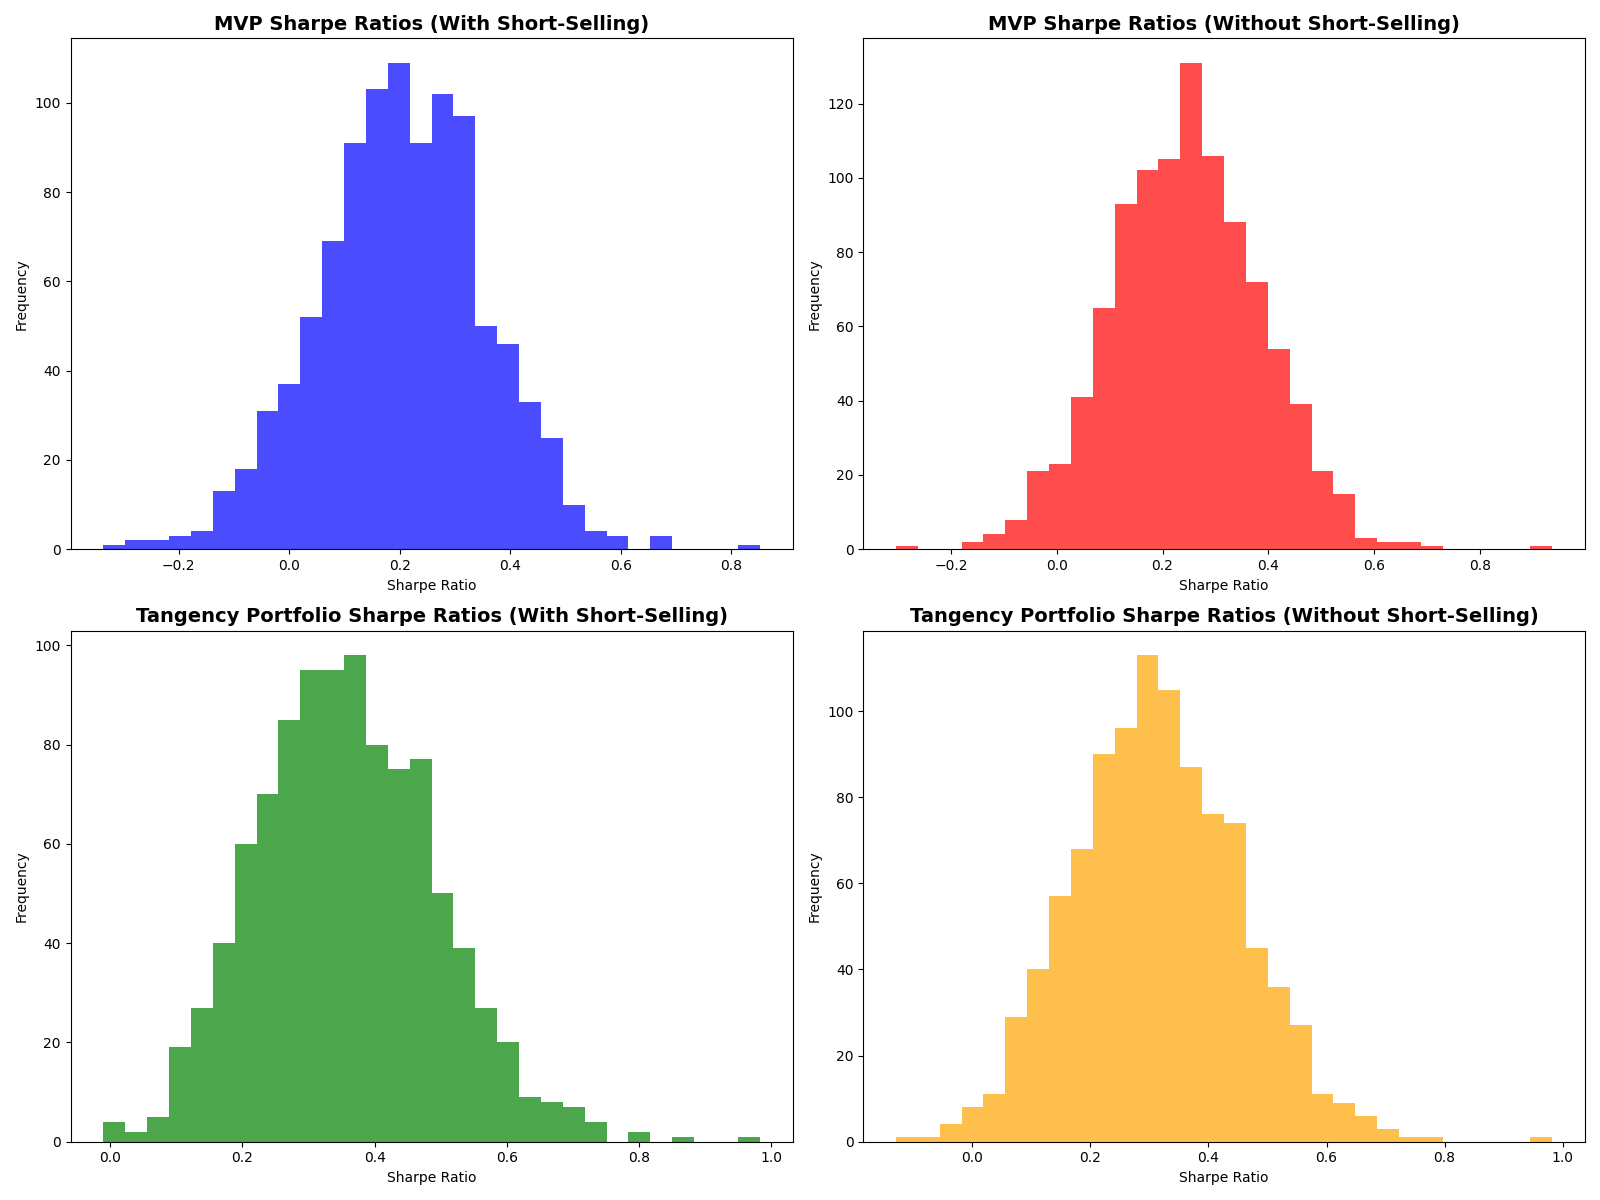
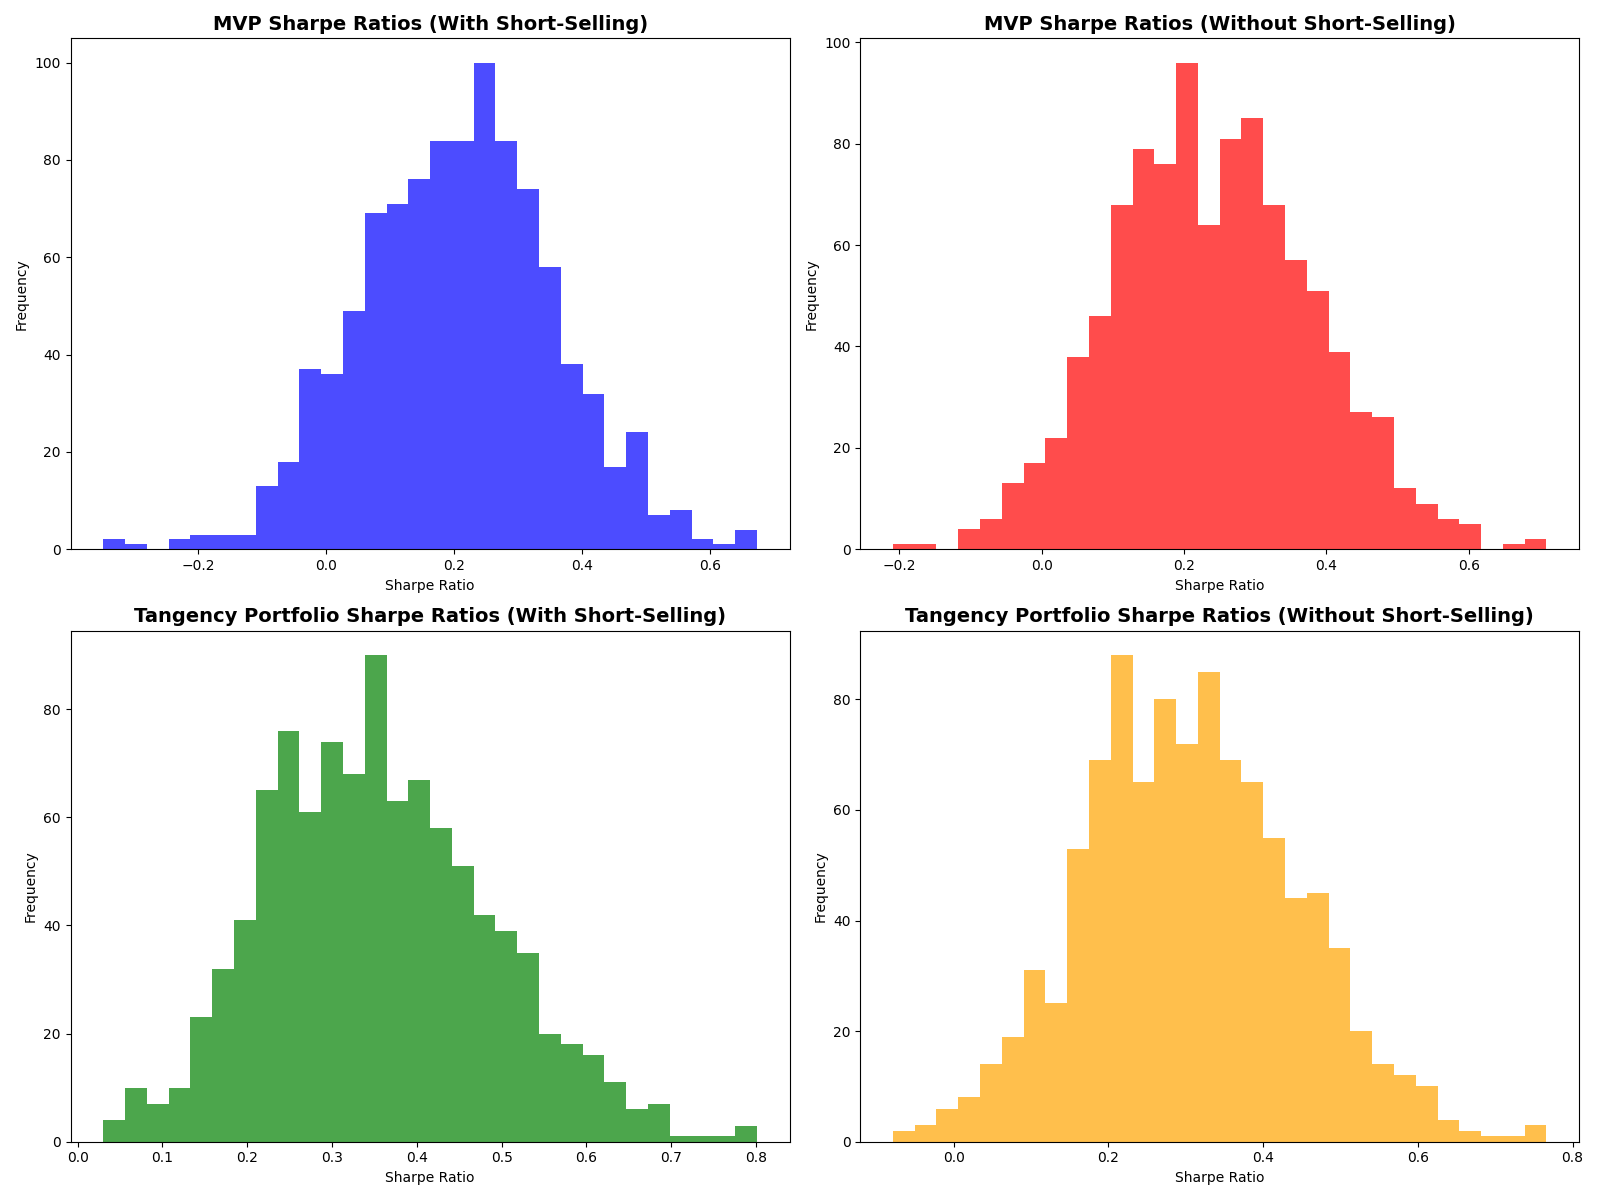
send

diff --git a/Projet.py b/Projet.py
@@ -760,3 +760,215 @@ axs[1, 1].grid(True)
 plt.tight_layout()
 plt.savefig("most_optimal_portfoliosB12.png")
 plt.show() 
+
+
+
+
+
+
+
+
+# B) 2. Repeat 1 but with a maximum of 3 of the 5 industries chosen
+# Chose 3 random industries (columns) from the portfolios_data DataFrame
+
+def bootstrap_sampling(data, n_iterations=1000, sample_size=60):
+   bootstrap_samples = []
+   for _ in range(n_iterations):
+       sample = data.sample(n=sample_size, replace=True)
+       bootstrap_samples.append(sample)
+   return bootstrap_samples
+
+# Perform bootstrap sampling
+bootstrap_samples = bootstrap_sampling(returns, n_iterations=1000, sample_size=60)
+# Initialize lists to store results for both short-selling scenarios
+mvp_results_with_short = []
+mvp_results_without_short = []
+tangency_results_with_short = []
+tangency_results_without_short = []
+
+# Loop through each bootstrap sample
+for sample in bootstrap_samples:
+   # Calculate expected returns and covariance matrix
+   expected_returns = sample.mean()
+   cov_matrix = sample.cov()
+   
+   # MVP with short-selling
+   mvp_weights_with_short = calculate_mvp_weights(cov_matrix, allow_short_selling=True)
+   mvp_return_with_short = np.dot(mvp_weights_with_short, expected_returns)
+   mvp_risk_with_short = np.sqrt(mvp_weights_with_short.T @ cov_matrix @ mvp_weights_with_short)
+   mvp_results_with_short.append({
+       'mvp_weights': mvp_weights_with_short,
+       'mvp_return': mvp_return_with_short,
+       'mvp_risk': mvp_risk_with_short,
+       'sharpe_ratio': (mvp_return_with_short - rf_rate) / mvp_risk_with_short
+   })
+   
+   # MVP without short-selling
+   mvp_weights_without_short = calculate_mvp_weights(cov_matrix, allow_short_selling=False)
+   mvp_return_without_short = np.dot(mvp_weights_without_short, expected_returns)
+   mvp_risk_without_short = np.sqrt(mvp_weights_without_short.T @ cov_matrix @ mvp_weights_without_short)
+   mvp_results_without_short.append({
+       'mvp_weights': mvp_weights_without_short,
+       'mvp_return': mvp_return_without_short,
+       'mvp_risk': mvp_risk_without_short,
+       'sharpe_ratio': (mvp_return_without_short - rf_rate) / mvp_risk_without_short
+   })
+   
+   # Tangency with short-selling
+   tangency_portfolio_with_short = calculate_tangency_portfolio(expected_returns, cov_matrix, rf_rate, allow_short_selling=True)
+   tangency_results_with_short.append(tangency_portfolio_with_short)
+   
+   # Tangency without short-selling
+   tangency_portfolio_without_short = calculate_tangency_portfolio(expected_returns, cov_matrix, rf_rate, allow_short_selling=False)
+   tangency_results_without_short.append(tangency_portfolio_without_short)
+
+# Convert results to DataFrames
+def results_to_dataframe(results):
+   return pd.DataFrame([{
+       'portfolio_return': result['mvp_return'] if 'mvp_return' in result else result['expected_return'],
+       'portfolio_risk': result['mvp_risk'] if 'mvp_risk' in result else result['risk'],
+       'sharpe_ratio': result['sharpe_ratio']
+   } for result in results])
+
+mvp_df_with_short = results_to_dataframe(mvp_results_with_short)
+mvp_df_without_short = results_to_dataframe(mvp_results_without_short)
+tangency_df_with_short = results_to_dataframe(tangency_results_with_short)
+tangency_df_without_short = results_to_dataframe(tangency_results_without_short)
+
+# Plotting
+plt.figure(figsize=(16, 12))
+plt.subplot(2, 2, 1)
+plt.hist(mvp_df_with_short['sharpe_ratio'], bins=30, color='blue', alpha=0.7)
+plt.title('MVP Sharpe Ratios (With Short-Selling)', fontsize=14, fontweight='bold')
+plt.xlabel('Sharpe Ratio')
+plt.ylabel('Frequency')
+
+plt.subplot(2, 2, 2)
+plt.hist(mvp_df_without_short['sharpe_ratio'], bins=30, color='red', alpha=0.7)
+plt.title('MVP Sharpe Ratios (Without Short-Selling)', fontsize=14, fontweight='bold')
+plt.xlabel('Sharpe Ratio')
+plt.ylabel('Frequency')
+
+plt.subplot(2, 2, 3)
+plt.hist(tangency_df_with_short['sharpe_ratio'], bins=30, color='green', alpha=0.7)
+plt.title('Tangency Portfolio Sharpe Ratios (With Short-Selling)', fontsize=14, fontweight='bold')
+plt.xlabel('Sharpe Ratio')
+plt.ylabel('Frequency')
+
+plt.subplot(2, 2, 4)
+plt.hist(tangency_df_without_short['sharpe_ratio'], bins=30, color='orange', alpha=0.7)
+plt.title('Tangency Portfolio Sharpe Ratios (Without Short-Selling)', fontsize=14, fontweight='bold')
+plt.xlabel('Sharpe Ratio')
+plt.ylabel('Frequency')
+
+plt.tight_layout()
+plt.savefig("bootstrap_comparisonB21.png")
+plt.show()
+
+# Print summary statistics
+print("MVP With Short-Selling Summary:")
+print(mvp_df_with_short.describe())
+print("\nMVP Without Short-Selling Summary:")
+print(mvp_df_without_short.describe())
+print("\nTangency With Short-Selling Summary:")
+print(tangency_df_with_short.describe())
+print("\nTangency Without Short-Selling Summary:")
+print(tangency_df_without_short.describe())
+
+
+# Make another bundle of graphs where it shows the MPV and tangency portfolio (as in A1, A2, A4, A5) 
+# from the bootstrap samples that is the most optimal
+# Function to find the most optimal portfolio based on Sharpe ratio
+def find_most_optimal_portfolio(results):
+    """
+    Find the most optimal portfolio based on the highest Sharpe ratio.
+    
+    Parameters:
+    - results: List of dictionaries containing portfolio information
+    
+    Returns:
+    - Dictionary with the most optimal portfolio details
+    """
+    optimal_portfolio = max(results, key=lambda x: x['sharpe_ratio'])
+    return optimal_portfolio
+
+# Find the most optimal portfolios
+most_optimal_mvp_with_short = find_most_optimal_portfolio(mvp_results_with_short)
+most_optimal_mvp_without_short = find_most_optimal_portfolio(mvp_results_without_short)
+most_optimal_tangency_with_short = find_most_optimal_portfolio(tangency_results_with_short)
+most_optimal_tangency_without_short = find_most_optimal_portfolio(tangency_results_without_short)
+# Create subplots for the most optimal portfolios
+fig, axs = plt.subplots(2, 2, figsize=(16, 12))
+
+# Plotting the most optimal MVP with short-selling
+axs[0, 0].set_title("Most Optimal MVP (With Short Selling)", fontsize=15, fontweight='bold')
+for industry in expected_returns.index:
+    axs[0, 0].scatter(np.std(returns[industry]) * 100, expected_returns[industry] * 100, marker='X', s=200, label=industry)
+axs[0, 0].scatter(most_optimal_mvp_with_short['mvp_risk'] * 100, most_optimal_mvp_with_short['mvp_return'] * 100, color="red", marker="*", s=200, label="Most Optimal MVP (With Short Selling)")
+axs[0, 0].text(most_optimal_mvp_with_short['mvp_risk'] * 100, most_optimal_mvp_with_short['mvp_return'] * 100, f"(r = {most_optimal_mvp_with_short['mvp_return']*100:.2f}%), σ = {most_optimal_mvp_with_short['mvp_risk']*100:.2f}%)", fontsize=8, ha='right')
+axs[0, 0].xaxis.set_major_formatter(mtick.PercentFormatter())
+axs[0, 0].yaxis.set_major_formatter(mtick.PercentFormatter())
+axs[0, 0].set_xlim(0, 20)
+axs[0, 0].set_ylim(-10, 10)
+axs[0, 0].set_xlabel("Standard Deviation (%)", fontsize=12)
+axs[0, 0].set_ylabel("Expected Return (%)", fontsize=12)
+axs[0, 0].legend()
+axs[0, 0].grid(True)
+
+# Plotting the most optimal MVP without short-selling
+axs[0, 1].set_title("Most Optimal MVP (Without Short Selling)", fontsize=15, fontweight='bold')
+for industry in expected_returns.index:
+    axs[0, 1].scatter(np.std(returns[industry]) * 100, expected_returns[industry] * 100, marker='X', s=200, label=industry)
+axs[0, 1].scatter(most_optimal_mvp_without_short['mvp_risk'] * 100, most_optimal_mvp_without_short['mvp_return'] * 100, color="red", marker="*", s=200, label="Most Optimal MVP (Without Short Selling)")
+axs[0, 1].text(most_optimal_mvp_without_short['mvp_risk'] * 100, most_optimal_mvp_without_short['mvp_return'] * 100, f"(r = {most_optimal_mvp_without_short['mvp_return']*100:.2f}%), σ = {most_optimal_mvp_without_short['mvp_risk']*100:.2f}%)", fontsize=8, ha='right')
+axs[0, 1].xaxis.set_major_formatter(mtick.PercentFormatter())
+axs[0, 1].yaxis.set_major_formatter(mtick.PercentFormatter())
+axs[0, 1].set_xlim(0, 20)
+axs[0, 1].set_ylim(-10, 10)
+axs[0, 1].set_xlabel("Standard Deviation (%)", fontsize=12)
+axs[0, 1].set_ylabel("Expected Return (%)", fontsize=12)
+axs[0, 1].legend()
+axs[0, 1].grid(True)
+
+# Plotting the most optimal Tangency Portfolio with short-selling
+axs[1, 0].set_title("Most Optimal Tangency Portfolio (With Short Selling)", fontsize=15, fontweight='bold')
+for industry in expected_returns.index:
+    axs[1, 0].scatter(np.std(returns[industry]) * 100, expected_returns[industry] * 100, marker='X', s=200, label=industry)
+axs[1, 0].scatter(most_optimal_tangency_with_short['risk'] * 100, most_optimal_tangency_with_short['expected_return'] * 100, color="blue", marker="*", s=200, label="Most Optimal Tangency Portfolio (With Short Selling)")
+axs[1, 0].text(most_optimal_tangency_with_short['risk'] * 100, most_optimal_tangency_with_short['expected_return'] * 100, f"(r = {most_optimal_tangency_with_short['expected_return']*100:.2f}%), σ = {most_optimal_tangency_with_short['risk']*100:.2f}%)", fontsize=8, ha='right')
+axs[1, 0].xaxis.set_major_formatter(mtick.PercentFormatter())
+axs[1, 0].yaxis.set_major_formatter(mtick.PercentFormatter())
+axs[1, 0].set_xlim(0, 20)
+axs[1, 0].set_ylim(-10, 10)
+axs[1, 0].set_xlabel("Standard Deviation (%)", fontsize=12)
+axs[1, 0].set_ylabel("Expected Return (%)", fontsize=12)
+axs[1, 0].legend()
+axs[1, 0].grid(True)
+
+# Plotting the most optimal Tangency Portfolio without short-selling
+axs[1, 1].set_title("Most Optimal Tangency Portfolio (Without Short Selling)", fontsize=15, fontweight='bold')
+for industry in expected_returns.index:
+    axs[1, 1].scatter(np.std(returns[industry]) * 100, expected_returns[industry] * 100, marker='X', s=200, label=industry)
+axs[1, 1].scatter(most_optimal_tangency_without_short['risk'] * 100, most_optimal_tangency_without_short['expected_return'] * 100, color="blue", marker="*", s=200, label="Most Optimal Tangency Portfolio (Without Short Selling)")
+axs[1, 1].text(most_optimal_tangency_without_short['risk'] * 100, most_optimal_tangency_without_short['expected_return'] * 100, f"(r = {most_optimal_tangency_without_short['expected_return']*100:.2f}%), σ = {most_optimal_tangency_without_short['risk']*100:.2f}%)", fontsize=8, ha='right')
+axs[1, 1].xaxis.set_major_formatter(mtick.PercentFormatter())
+axs[1, 1].yaxis.set_major_formatter(mtick.PercentFormatter())
+axs[1, 1].set_xlim(0, 20)
+axs[1, 1].set_ylim(-10, 10)
+axs[1, 1].set_xlabel("Standard Deviation (%)", fontsize=12)
+axs[1, 1].set_ylabel("Expected Return (%)", fontsize=12)
+axs[1, 1].legend()
+axs[1, 1].grid(True)
+
+# Adjust layout and save the figure
+plt.tight_layout()
+plt.savefig("most_optimal_portfoliosB22.png")
+plt.show() 
+
+
+
+
+
+
+# B) 3. From all 48 industries, find up to 5 industries as a portfolio that has the highest Sharpe ratio (with short-selling and without short-selling portfolios)
+
